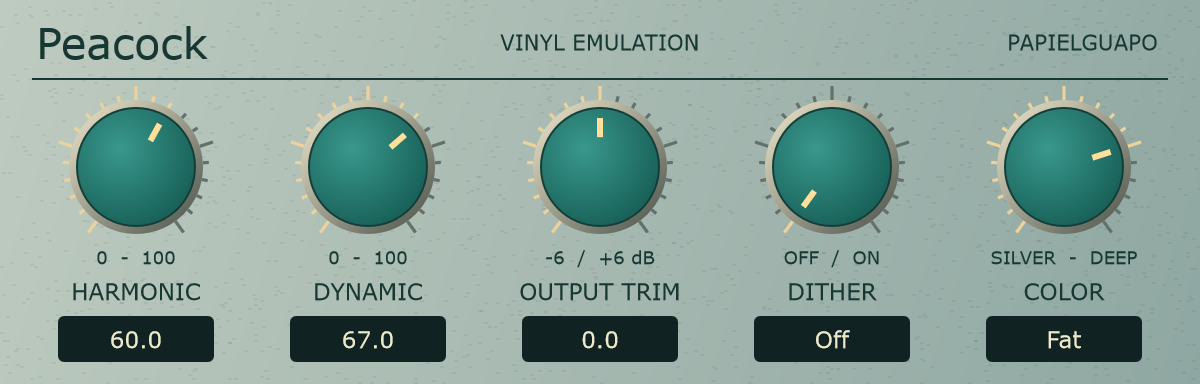
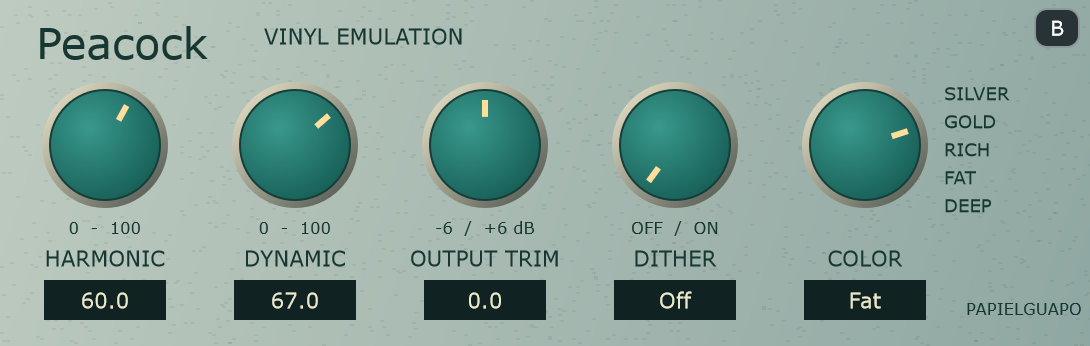
Add compact hardware and switchable deck skins

diff --git a/Source/PluginProcessor.cpp b/Source/PluginProcessor.cpp
@@ -106,13 +106,19 @@ public:
 class Panel final : public juce::AudioProcessorEditor
 {
     struct DialStyle : juce::LookAndFeel_V4 {
+        bool deck=false;
+        juce::Colour accent;
         void drawRotarySlider(juce::Graphics& g,int x,int y,int w,int h,float value,float start,float end,juce::Slider&) override {
             auto r=float(juce::jmin(w,h))/2-6; auto cx=x+w*.5f, cy=y+h*.5f;
             auto polar=[&](float angle,float radius){return juce::Point<float>(cx+radius*std::sin(angle),cy-radius*std::cos(angle));};
-            for(int i=0;i<=20;++i){
-                auto angle=start+(end-start)*i/20;
-                g.setColour(juce::Colour(i<=value*20?0xffeed29b:0xff63716d));
-                g.drawLine({polar(angle,r-2),polar(angle,r+(i%5==0?5:1))},1.6f);
+            if(deck){
+                auto box=juce::Rectangle<float>(2*r,2*r).withCentre({cx,cy});
+                g.setColour(juce::Colour(0xff090e10));g.fillEllipse(box);
+                juce::Path arc;arc.addCentredArc(cx,cy,r-2,r-2,0,start,end,true);
+                g.setColour(juce::Colour(0xff455053));g.strokePath(arc,juce::PathStrokeType(3));
+                juce::Path active;active.addCentredArc(cx,cy,r-2,r-2,0,start,start+value*(end-start),true);
+                g.setColour(accent);g.strokePath(active,juce::PathStrokeType(3));
+                g.drawLine({polar(start+value*(end-start),r*.45f),polar(start+value*(end-start),r-5)},2.5f);return;
             }
             auto ring=juce::Rectangle<float>(2*r-4,2*r-4).withCentre({cx,cy});
             g.setGradientFill(juce::ColourGradient(juce::Colour(0xfff1e9cd),ring.getX(),ring.getY(),juce::Colour(0xff47504a),ring.getRight(),ring.getBottom(),false));
@@ -127,8 +133,19 @@ class Panel final : public juce::AudioProcessorEditor
     std::array<juce::Slider,5> knobs;
     std::array<std::unique_ptr<State::SliderAttachment>,5> links;
     juce::StringArray colors{"Silver","Gold","Rich","Fat","Deep"};
+    State& ui;
+    juce::TextButton flip;
+    std::array<juce::TextButton,7> tabs;
+    int palette=0;
+    void refresh() {
+        constexpr juce::uint32 accents[]={0xff55d5ad,0xffffad54,0xffb4a4ff,0xffeabe62,0xff75dbf4,0xffe0ddaa,0xff7ef684};
+        style.accent=juce::Colour(accents[palette]);
+        flip.setButtonText(style.deck?"A":"B");flip.setTooltip(style.deck?"Cara A":"Cara B");
+        for(int i=0;i<7;++i){tabs[i].setVisible(style.deck);tabs[i].setColour(juce::TextButton::textColourOffId,i==palette?style.accent:juce::Colours::white);}
+        resized();repaint();
+    }
 public:
-    Panel(Peacock& p,State& state):AudioProcessorEditor(p) {
+    Panel(Peacock& p,State& state):AudioProcessorEditor(p),ui(state) {
         setLookAndFeel(&style);
         const char* ids[]={"Harmonic","Dynamic","OutputTrim","Dither","Color"};
         for(int i=0;i<5;++i){
@@ -140,28 +157,50 @@ public:
         }
         knobs[2].setName("Output Trim");
         knobs[3].setRange(0,100,100);
-        setSize(600,192);
+        flip.setComponentID("flip");flip.setName("Cambiar cara");
+        flip.onClick=[this]{style.deck=!style.deck;ui.state.setProperty("deck",style.deck,nullptr);refresh();};
+        addAndMakeVisible(flip);
+        const char* codes[]={"CS","FL","PT","AB","LP","98","AT"};
+        for(int i=0;i<7;++i){auto& t=tabs[i];t.setButtonText(codes[i]);t.onClick=[this,i]{palette=i;ui.state.setProperty("palette",i,nullptr);refresh();};addChildComponent(t);}
+        style.deck=bool(ui.state.getProperty("deck",false));palette=juce::jlimit(0,6,int(ui.state.getProperty("palette",0)));
+        setSize(545,173);refresh();
     }
     ~Panel() override {setLookAndFeel(nullptr);}
     void resized() override {
-        for(int i=0;i<5;++i) knobs[i].setBounds(14+i*116,42,108,83);
+        for(int i=0;i<5;++i) knobs[i].setBounds(style.deck?8+i*106:13+i*95,style.deck?32:32,style.deck?96:79,style.deck?65:81);
+        flip.setBounds(517,4,23,20);
+        for(int i=0;i<7;++i) tabs[i].setBounds(280+32*i,4,30,20);
+    }
+    void mouseDoubleClick(const juce::MouseEvent& e) override {
+        if(e.y<29 || (style.deck && e.y>136) || (!style.deck && e.x>=471 && e.y>136)) flip.onClick();
     }
     void paint(juce::Graphics& g) override {
-        g.setGradientFill(juce::ColourGradient(juce::Colour(0xffbecbc0),0,0,juce::Colour(0xff8fa7a2),600,192,false));g.fillAll();
+        if(style.deck){
+            g.fillAll(juce::Colour(0xff1c2529));g.setColour(style.accent);g.setFont(16.f);
+            g.drawText("PEACOCK  /  DECK",12,3,240,22,juce::Justification::centredLeft);
+            g.drawHorizontalLine(27,9,536);
+            for(int i=0;i<5;++i){auto x=8+i*106;g.setColour(juce::Colours::white);g.setFont(13.f);g.drawText(knobs[i].getName(),x,97,96,19,juce::Justification::centred);
+                auto v=knobs[i].getValue();g.setColour(style.accent);g.drawText(i==4?colors[int(v)]:i==3?(v>0?juce::String("16 Bit"):juce::String("Off")):juce::String(v,1),x,115,96,18,juce::Justification::centred);}
+            g.setColour(juce::Colour(0xff0d1517));g.fillRect(8,138,529,28);g.setColour(style.accent);g.setFont(12.f);
+            g.drawText("COLOR  /  "+colors[int(knobs[4].getValue())].toUpperCase(),18,140,180,24,juce::Justification::centredLeft);
+            g.drawText("OUTPUT  /  "+juce::String(knobs[2].getValue(),1)+" dB",180,140,165,24,juce::Justification::centred);
+            g.drawText("PAPIELGUAPO",350,140,174,24,juce::Justification::centredRight);return;
+        }
+        g.setGradientFill(juce::ColourGradient(juce::Colour(0xffbecbc0),0,0,juce::Colour(0xff8fa7a2),545,173,false));g.fillAll();
         juce::Random grain(541);g.setColour(juce::Colours::black.withAlpha(.055f));
         for(int i=0;i<1800;++i) g.fillRect(grain.nextInt(600),grain.nextInt(192),2,1);
         auto ink=juce::Colour(0xff173832);g.setColour(ink);g.setFont(26.f);
         g.drawText("Peacock",18,4,160,34,juce::Justification::centredLeft);
-        g.setFont(13.f);g.drawText("VINYL EMULATION",188,8,224,26,juce::Justification::centred);
-        g.drawText("PAPIELGUAPO",425,8,154,26,juce::Justification::centredRight);
-        g.drawHorizontalLine(39,16,584);
+        g.setFont(13.f);g.drawText("VINYL EMULATION",132,5,174,26,juce::Justification::centredLeft);
+        g.setFont(10.f);g.drawText("PAPIELGUAPO",461,145,80,18,juce::Justification::centredRight);
+        g.setFont(11.f);for(int i=0;i<5;++i)g.drawText(colors[i].toUpperCase(),472,39+14*i,69,15,juce::Justification::centredLeft);
         const char* ranges[]={"0  -  100","0  -  100","-6  /  +6 dB","OFF  /  ON","SILVER  -  DEEP"};
         for(int i=0;i<5;++i){
-            int x=14+i*116;g.setColour(ink);g.setFont(11.f);g.drawText(ranges[i],x,121,108,15,juce::Justification::centred);
-            g.setFont(14.f);g.drawText(knobs[i].getName().toUpperCase(),x,136,108,19,juce::Justification::centred);
-            g.setColour(juce::Colour(0xff102222));g.fillRoundedRectangle(float(x+15),158,78,23,3);
+            int x=5+i*95;g.setColour(ink);g.setFont(10.f);if(i<4)g.drawText(ranges[i],x,107,95,13,juce::Justification::centred);
+            g.setFont(13.f);g.drawText(knobs[i].getName().toUpperCase(),x,120,95,18,juce::Justification::centred);
+            g.setColour(juce::Colour(0xff102222));g.fillRect(x+17,140,61,20);
             auto v=knobs[i].getValue();auto text=i==4?colors[int(v)]:i==3?(v>0?juce::String("16 Bit"):juce::String("Off")):juce::String(v,1);
-            g.setColour(juce::Colour(0xffedeacb));g.drawText(text,x,158,108,23,juce::Justification::centred);
+            g.setColour(juce::Colour(0xffedeacb));g.drawText(text,x,140,95,20,juce::Justification::centred);
         }
     }
 };

diff --git a/tools/Capture.cpp b/tools/Capture.cpp
@@ -9,9 +9,20 @@ int main() {
         if(name=="Color") p->setValueNotifyingHost(.75f);
     }
     std::unique_ptr<juce::AudioProcessorEditor> editor(processor->createEditor());
+    auto save=[&](const char* path){
     auto image=editor->createComponentSnapshot(editor->getLocalBounds(),true,2);
-    auto file=juce::File::getCurrentWorkingDirectory().getChildFile("docs/peacock.png");
+    auto file=juce::File::getCurrentWorkingDirectory().getChildFile(path);
     juce::FileOutputStream out(file);
     if(!out.openedOk() || !out.setPosition(0) || out.truncate().failed()) return 1;
-    return juce::PNGImageFormat().writeImageToStream(image,out)?0:1;
+    return juce::PNGImageFormat().writeImageToStream(image,out)?0:1;};
+    if(save("docs/peacock.png")) return 1;
+    auto* flip=dynamic_cast<juce::Button*>(editor->findChildWithID("flip"));
+    if(!flip || flip->getButtonText()!="B") return 1;
+    std::vector<float> before;
+    for(auto* p:processor->getParameters()) before.push_back(p->getValue());
+    flip->onClick();
+    if(flip->getButtonText()!="A" || save("docs/peacock-deck.png")) return 1;
+    flip->onClick();
+    for(auto* p:processor->getParameters()) if(p->getValue()!=before.at(p->getParameterIndex())) return 1;
+    return flip->getButtonText()=="B"?0:1;
 }

diff --git a/README.md b/README.md
@@ -4,6 +4,10 @@
 
 ![Interfaz de Peacock con Harmonic en 60, Dynamic en 67, Dither en cero y Color en Fat](docs/peacock.png)
 
+**Cara A / Cara B.** Pulsa **B** en la esquina superior derecha para abrir el panel alternativo, o haz doble clic en la cabecera. La cara A sigue la distribución compacta de cinco mandos de la referencia; la B mantiene el mismo tamaño y los mismos mandos, añade siete paletas y muestra Color y Output Trim en el visor inferior. Las pestañas **CS, FL, PT, AB, LP, 98 y AT** solo cambian los colores. Pulsa **A** para volver. La cara y la paleta se guardan con la instancia, sin cambiar los parámetros de audio.
+
+![Cara B de Peacock: cinco mandos sobre un panel oscuro con selector de paleta y visor inferior](docs/peacock-deck.png)
+
 ## Instalación
 
 1. Descarga [Peacock para Windows x64](https://github.com/papielguapo/Peacock/releases/latest/download/Peacock-Windows-x64.zip) y descomprime el ZIP.
